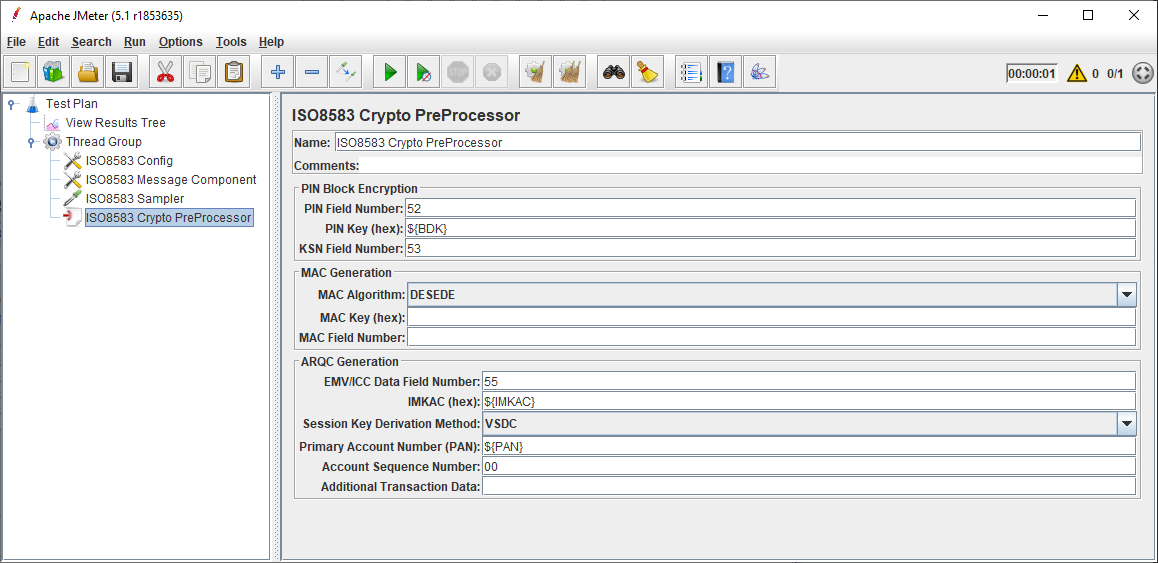
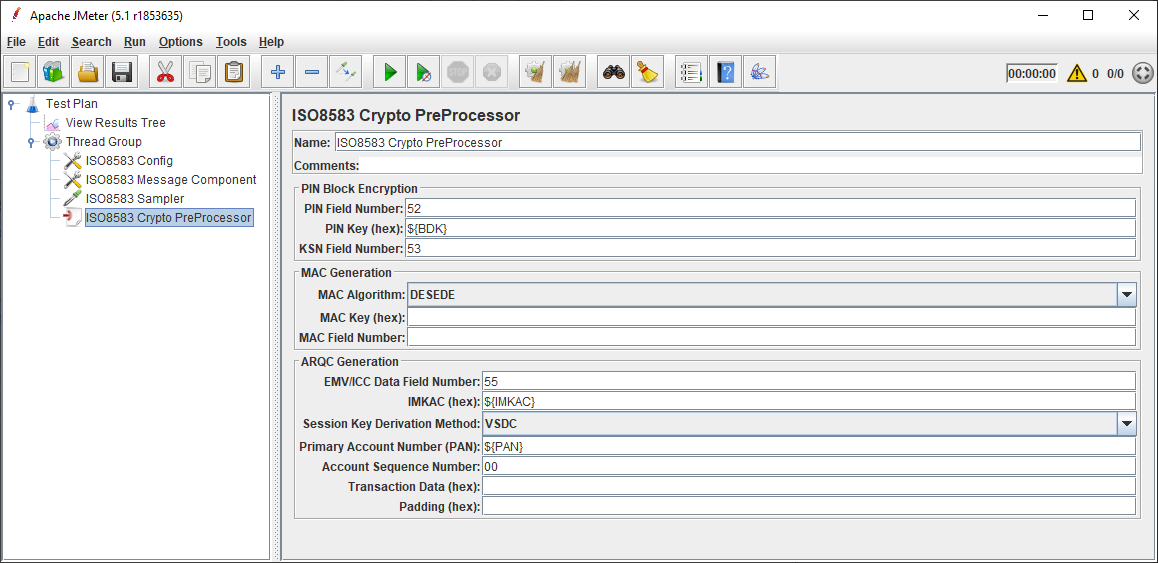
Add custom ARQC padding field

Changed region(s): [[0.2798, 0.8455, 0.9948, 0.9361], [0.0, 0.9964, 0.9948, 1.0]]

diff --git a/src/main/java/nz/co/breakpoint/jmeter/iso8583/ISO8583Crypto.java b/src/main/java/nz/co/breakpoint/jmeter/iso8583/ISO8583Crypto.java
@@ -43,7 +43,8 @@ public class ISO8583Crypto extends AbstractTestElement
         SKDM = "skdm",
         PAN = "pan",
         PSN = "psn",
-        TXNDATA = "txnData";
+        TXNDATA = "txnData",
+        PADDING= "padding";
 
     static final String[] macAlgorithms = new String[]{"", "DESEDE", "ISO9797ALG3MACWITHISO7816-4PADDING"};
     static final String[] skdMethods;
@@ -174,7 +175,7 @@ public class ISO8583Crypto extends AbstractTestElement
 
     protected void calculateARQC(ISO8583Sampler sampler) {
         final String hexKey = getImkac(), fieldNo = getIccField(), skdm = getSkdm(),
-            txnData = getTxnData();
+            txnData = getTxnData(), padding = getPadding();
         final ISOMsg msg = sampler.getRequest();
 
         if (fieldNo == null || fieldNo.isEmpty() || !msg.hasField(fieldNo)) {
@@ -228,6 +229,10 @@ public class ISO8583Crypto extends AbstractTestElement
                 transactionData.append(emvData.getOrDefault(tag, ""));
             }
         }
+        // Optionally, apply custom padding:
+        if (padding != null && transactionData.length() % 16 != 0) { // 16 hex digits = 8 bytes
+            transactionData.append(padding);
+        }
 
         // Lastly, the actual calculation:
         final String arqc = securityModule.calculateARQC(MKDMethod.OPTION_A,
@@ -276,4 +281,7 @@ public class ISO8583Crypto extends AbstractTestElement
 
     public String getTxnData() { return getPropertyAsString(TXNDATA); }
     public void setTxnData(String txnData) { setProperty(TXNDATA, txnData); }
+
+    public String getPadding() { return getPropertyAsString(PADDING); }
+    public void setPadding(String padding) { setProperty(PADDING, padding); }
 }

diff --git a/src/main/java/nz/co/breakpoint/jmeter/iso8583/ISO8583CryptoBeanInfo.java b/src/main/java/nz/co/breakpoint/jmeter/iso8583/ISO8583CryptoBeanInfo.java
@@ -45,7 +45,7 @@ public class ISO8583CryptoBeanInfo extends ISO8583TestElementBeanInfo {
         p.setValue(DEFAULT, "");
 
         createPropertyGroup("ARQC", new String[]{
-            ICCFIELD, IMKAC, SKDM, PAN, PSN, TXNDATA,
+            ICCFIELD, IMKAC, SKDM, PAN, PSN, TXNDATA, PADDING,
         });
 
         p = property(ICCFIELD);
@@ -70,6 +70,10 @@ public class ISO8583CryptoBeanInfo extends ISO8583TestElementBeanInfo {
         p.setValue(DEFAULT, "00");
 
         p = property(TXNDATA);
+        p.setValue(NOT_UNDEFINED, Boolean.TRUE);
+        p.setValue(DEFAULT, "");
+
+        p = property(PADDING);
         p.setValue(NOT_UNDEFINED, Boolean.TRUE);
         p.setValue(DEFAULT, "");
     }

diff --git a/README.md b/README.md
@@ -303,6 +303,8 @@ and the calculated ARQC value will be added as an additional subfield (tag `9F26
 
     **Note:** Changed behaviour! For v1.0 the data in this field is *appended* to the automatically extracted fields,
     whereas as of v1.1 data in this field overrides the extraction.
+- *Padding (hex)* (since v1.1): Padding bytes to append to transaction data before ARQC calculation 
+(leave blank for zero-padding, 80 for ISO9797-1 Method 2).
 
 <h3 id="functions">Crypto Functions (since v1.1)</h3>
 
